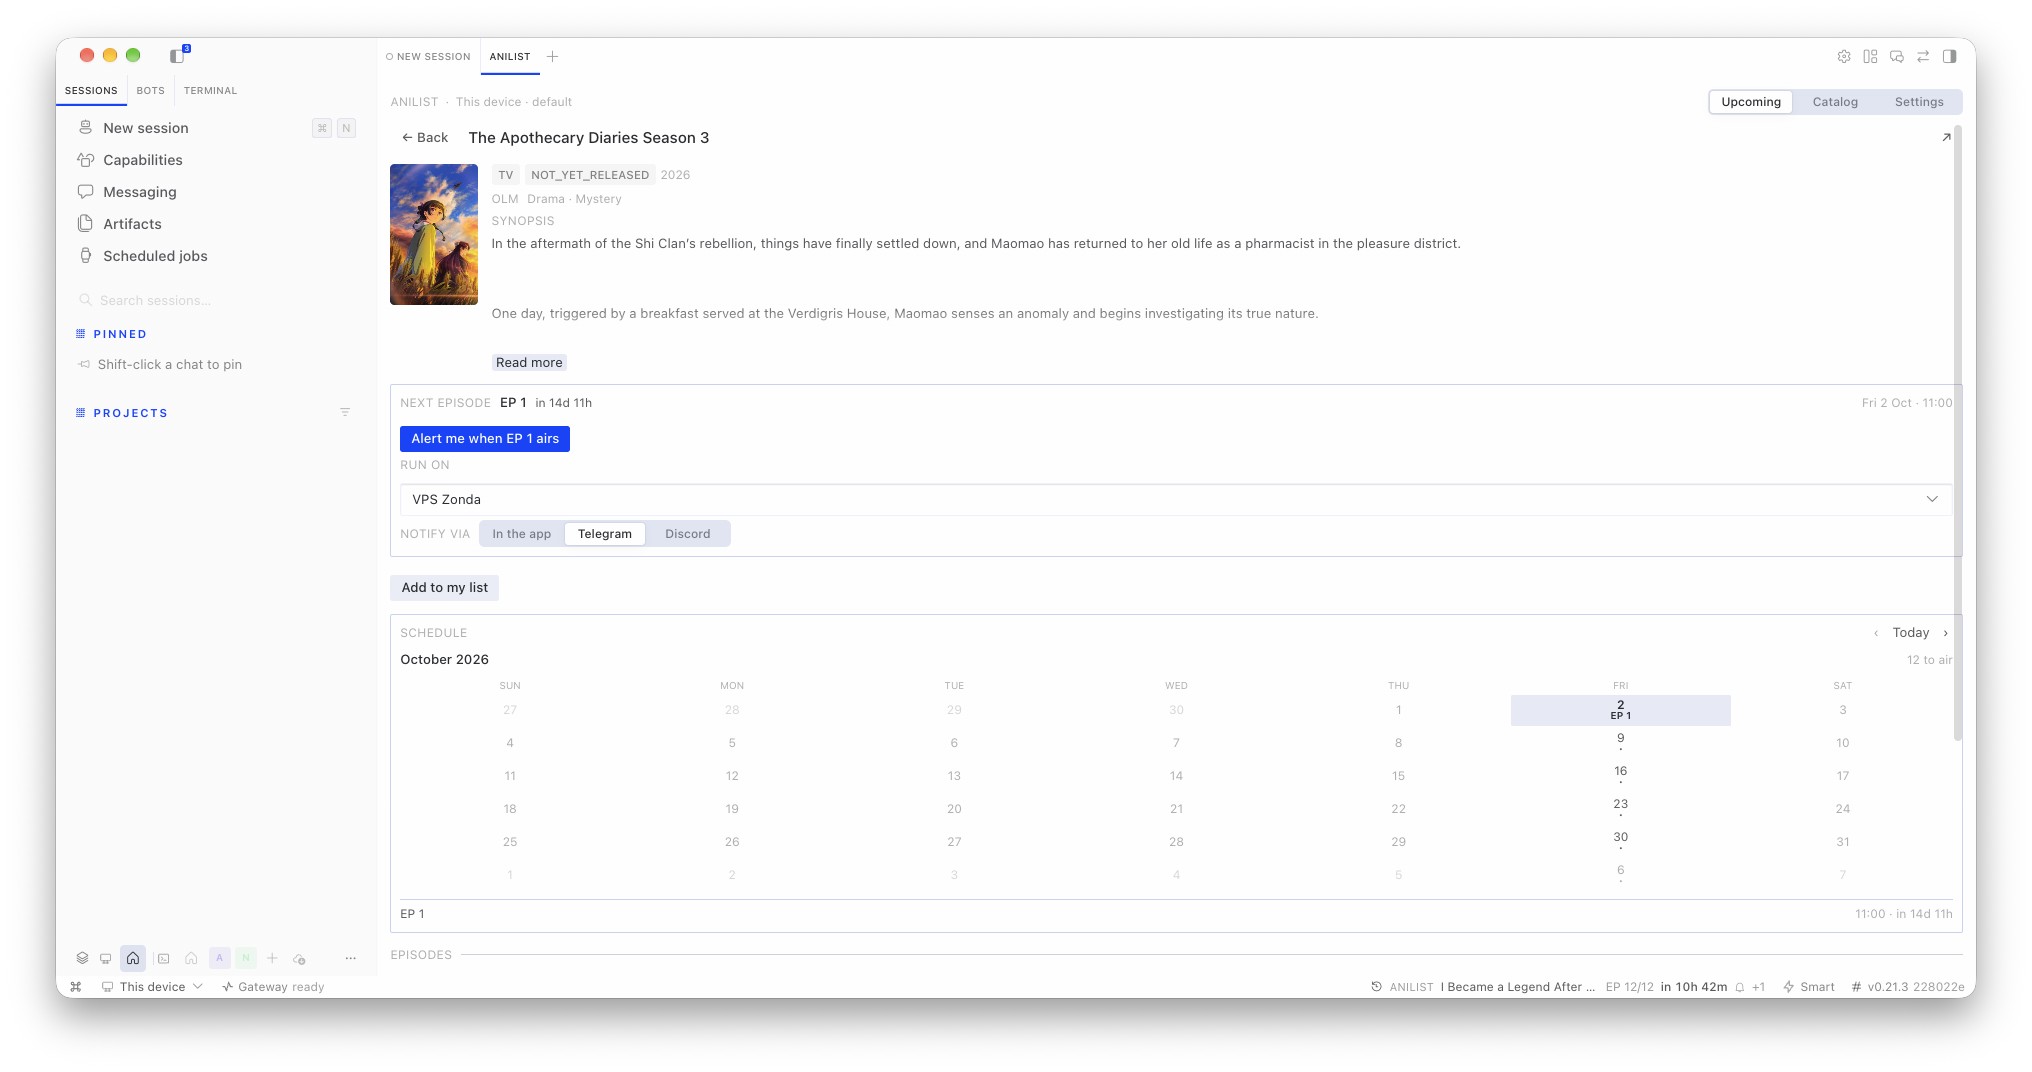
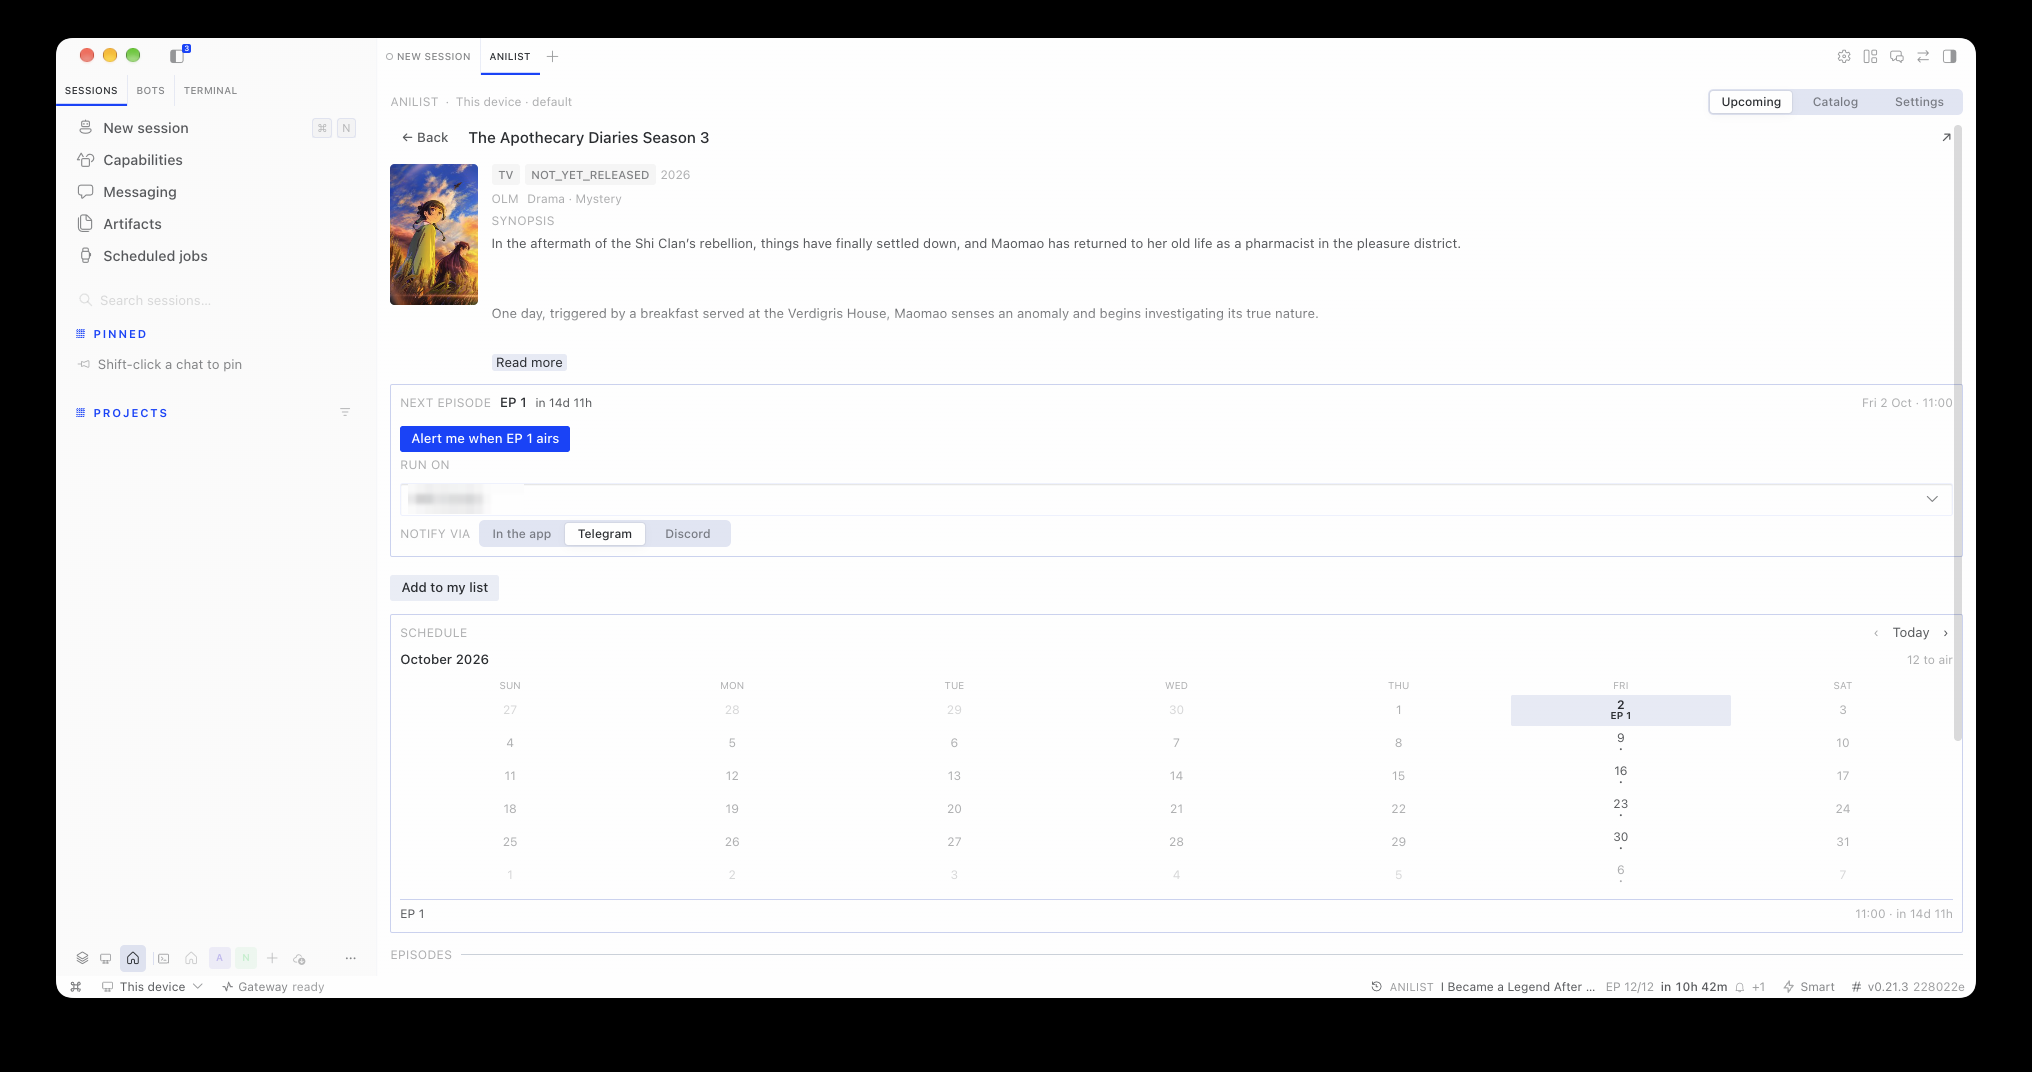
docs: the gallery redacts a host, and the catalog section moves to CONTRIBUTING
Two follow-ups from review.

The show-page capture no longer names the alert destination: the RUN
ON control is mosaicked and blurred (a mosaic alone can leak through
pattern, a blur alone is still legible at this size), leaving the
field, its neighbours and the rest of the page untouched. Two other
captures stay out of the gallery — the account row and the destination
list are not worth publishing for a settings screenshot.

And the catalog submission is gone from the README: it is
maintainer-facing process (a PR to another repository), not something
a reader of the plugin needs. The checklist, the entry file, the
two-week pin rule and the pin-bump flow live in CONTRIBUTING.md now,
with a one-line pointer left behind.

Changed region(s): [[0.0, 0.0, 1.0, 1.0], [0.217, 0.4618, 0.248, 0.4925]]

diff --git a/README.md b/README.md
@@ -13,8 +13,7 @@ are human; the code is not.
 
 > **Status: 0.8.0.** The pane, the AniList backend (read *and* write), the pin-flow sign-in, the cron
 > alerts, the daily digest and the two agent tools all work today. Next: the catalog PR (which opens
-> once the pinned commit is two weeks old — see [Hermes plugin catalog](#hermes-plugin-catalog)) and the
-> agent's writing tools.
+> once the pinned commit is two weeks old) and the agent's writing tools.
 
 ---
 
@@ -303,41 +302,6 @@ clone → push → `hermes plugins update hermes-anilist`.
 Desktop-half edits hot-reload: save `desktop/plugin.js` and the app picks it up. Backend-half and
 `tools.py` edits need the backend restarted, because tools and routes register at startup.
 
-## Hermes plugin catalog
-
-**What this section is for:** the catalog is the only reviewed index behind
-`hermes plugins install <name>`, and admission is a pull request to a *different* repository
-(`NousResearch/hermes-agent`) — never to this one. So this section is the submission's checklist with
-where this repo stands, and it is where the entry file lives, ready to copy. Nothing under this repo's
-`plugin-catalog/` directory is read by Hermes at runtime.
-
-The catalog itself is documented at
-[Plugin Catalog](https://hermes-agent.nousresearch.com/docs/user-guide/features/plugin-catalog), and
-the checklist is that repo's `plugin-catalog/README.md`:
-
-| Requirement | Where this repo stands |
-|---|---|
-| Owner-submitted PR | BatataBF owns the repo |
-| Public repository | `github.com/BatataBF/hermes-anilist` |
-| Real releases/tags, not just a branch | annotated tags per release — `v0.7.0`, `v0.8.0`, … |
-| Exact 40-hex SHA pin, at least two weeks old at review | pinned to the `v0.8.0` commit; submit the PR no earlier than **2026-10-01** |
-| Not self-updating | no updater in the plugin: `hermes plugins update` is the only path |
-| Declared capabilities match reality | `hermes plugins validate` passes (2 declared tools, 2 registered) |
-| Admission validation green | `.github/workflows/ci.yml` runs the same validator on every push |
-| Security scan clean | `hermes plugins validate` reports `safe`; no `tools.override`, no LLM access |
-
-The entry itself is kept in this repo, ready to copy, at
-[`plugin-catalog/hermes-anilist.yaml`](plugin-catalog/hermes-anilist.yaml). To submit, open a PR against
-`NousResearch/hermes-agent` adding that same path with the file's contents, and paste the validator
-output in the description.
-
-The developer guide also asks standalone plugins to be promoted in the Nous Research Discord
-`#plugins-skills-and-skins` channel — a community plugin is a standalone repo first
-(`~/.hermes/plugins/` or a pip entry point) and a catalog entry second.
-
-Bumping the pin after a release is the same PR with a new `sha` (and the matching `version` label), so
-the diff a reviewer reads is exactly the commit range users would adopt.
-
 ## Roadmap
 
 - [x] **L0 · skeleton** — repository, unified package layout, live read-only pane over AniList.
@@ -370,7 +334,8 @@ See [CHANGELOG.md](CHANGELOG.md) — Keep a Changelog, one entry per released ve
 ## Contributing
 
 [CONTRIBUTING.md](CONTRIBUTING.md) has the loop (clone → the exact commands → `hermes plugins update`),
-the safety invariants a change has to respect, where each test lives, and the PR checklist.
+the safety invariants a change has to respect, where each test lives, the PR checklist, and the
+maintainer-facing side: the plugin catalog submission and how a release pin gets bumped.
 [SECURITY.md](SECURITY.md) covers the credential model and how to report a problem.
 
 ## License

diff --git a/CONTRIBUTING.md b/CONTRIBUTING.md
@@ -68,5 +68,38 @@ Mirror what is under test, not the file layout:
 
 One commit per task, imperative subject, the *why* in the body. Releases are deliberate: the `version`
 in `plugin.yaml`, a `## [x.y.z] - YYYY-MM-DD` section in the changelog and an annotated tag, all in the
-release commit. Bumping the plugin catalog's pin happens after a release, in the PR that carries the new
-`sha` and `version` (see the README's *Hermes plugin catalog*).
+release commit. The catalog pin is bumped after a release, in its own PR (below).
+
+## The plugin catalog (maintainer-facing)
+
+The catalog is the only reviewed index behind `hermes plugins install <name>`, and admission is a pull
+request to a **different** repository — `NousResearch/hermes-agent`, never this one. So: it is where the
+submission's checklist lives, and where the entry file is kept ready to copy. Nothing under this repo's
+`plugin-catalog/` directory is read by Hermes at runtime — that directory is documentation plus the PR's
+payload.
+
+The policy is hermes-agent's `plugin-catalog/README.md`; the user-facing side is the
+[Plugin Catalog](https://hermes-agent.nousresearch.com/docs/user-guide/features/plugin-catalog) page.
+
+| Requirement | Where this repo stands |
+|---|---|
+| Owner-submitted PR | BatataBF owns the repo |
+| Public repository | `github.com/BatataBF/hermes-anilist` |
+| Real releases/tags, not just a branch | annotated tags per release — `v0.7.0`, `v0.8.0`, … |
+| Exact 40-hex SHA pin, at least two weeks old at review | pinned to the `v0.8.0` commit; the PR opens no earlier than **2026-10-01** |
+| Not self-updating | no updater in the plugin: `hermes plugins update` is the only path |
+| Declared capabilities match reality | `hermes plugins validate` passes (2 declared tools, 2 registered) |
+| Admission validation green | `.github/workflows/ci.yml` runs the same validator on every push |
+| Security scan clean | `hermes plugins validate` reports `safe`; no `tools.override`, no LLM access |
+
+**To submit**: open a PR against `NousResearch/hermes-agent` adding `plugin-catalog/hermes-anilist.yaml`
+with the contents of [this repo's copy](plugin-catalog/hermes-anilist.yaml), and paste the validator
+output in the description.
+
+**To bump the pin** after a release: the same PR shape with a new `sha` (the release commit, quoted so
+YAML does not read an all-digit SHA as a number) and the matching `version` label, so the diff a reviewer
+reads is exactly the commit range users would adopt.
+
+The developer guide also asks standalone plugins to be promoted in the Nous Research Discord
+`#plugins-skills-and-skins` channel — a community plugin is a standalone repo first
+(`~/.hermes/plugins/` or a pip entry point) and a catalog entry second.

diff --git a/CHANGELOG.md b/CHANGELOG.md
@@ -30,6 +30,18 @@ This project follows [Keep a Changelog](https://keepachangelog.com/en/1.1.0/) an
 - The full update paths: `hermes plugins update` + restart, `--force` reinstall, a hand-made clone, and
   the difference a catalog install has (its pin, never `git pull`).
 
+### Changed
+
+- **The catalog submission moved out of the README.** It is maintainer-facing process, not a feature a
+  reader needs: it lives in [`CONTRIBUTING.md`](CONTRIBUTING.md) now (the checklist, the entry file, the
+  two-week pin rule and how a release bumps the pin), and the README keeps a one-line pointer. Nothing in
+  `plugin-catalog/` is read by Hermes at runtime, and the README no longer implies otherwise.
+- **The show page's screenshot no longer names a host.** The `RUN ON` control is redacted where it showed
+  the alert destination; the rest of the capture is untouched. Two other captures were left out of the
+  gallery entirely because they showed the account row and the destination list.
+- `.gitignore` covers the caches and build outputs of that tooling (`.ruff_cache/`, `.coverage`,
+  `htmlcov/`, `dist/`, `node_modules/`, `.env`), so a contributor's tree stays clean.
+
 ### Fixed
 
 - Lint findings the new rules surfaced: a stale `# noqa` on five handlers whose excepts are deliberately
@@ -37,11 +49,6 @@ This project follows [Keep a Changelog](https://keepachangelog.com/en/1.1.0/) an
   `open()` without a context manager, and a shebang on a file nobody could execute. The explanatory
   comments that rode on those directives were kept as plain comments — the directive was unnecessary,
   the *why* was not.
-
-### Changed
-
-- `.gitignore` covers the caches and build outputs of that tooling (`.ruff_cache/`, `.coverage`,
-  `htmlcov/`, `dist/`, `node_modules/`, `.env`), so a contributor's tree stays clean.
 
 ## [0.8.0] - 2026-09-17
 
